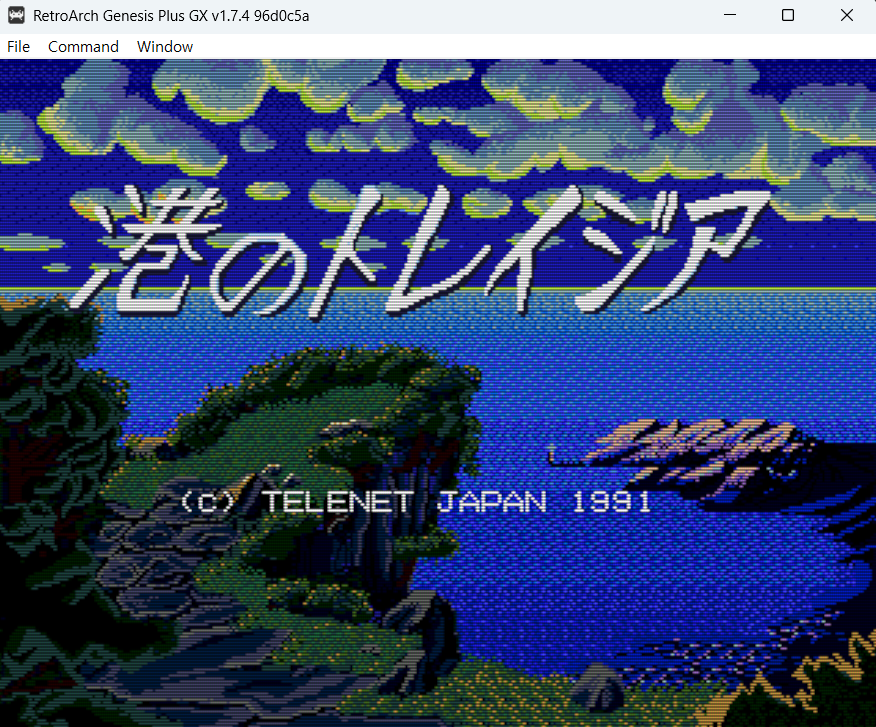
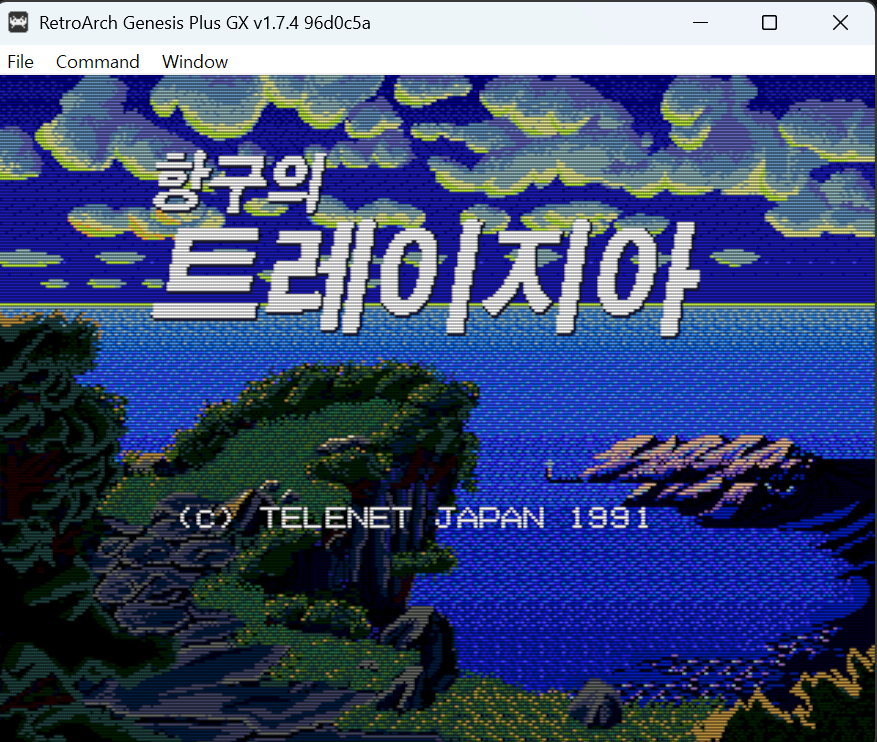
트레이지아 v0.8: 첫 배포 (검수 중)
- 오프닝~엔딩 전편 번역 완료, 총 1,676곳
- 타이틀 로고 붓 서체(HY궁서) + 이탤릭 확정
- 상태를 검수 중으로, 다운로드를 Release 링크로 변경

diff --git a/md/Minato-no-Traysia/README.md b/md/Minato-no-Traysia/README.md
@@ -2,11 +2,12 @@
 
 텔레네트 재팬 1991년작 메가드라이브 RPG **항구의 트레이지아(Minato no Traysia)** 의 한글화 패치입니다.
 
-> 🚧 **v0.7 — 개발 중** — 전투 조립 메시지의 조사(は/に)와 누락 문자열들을 정리했습니다.
+> 🔍 **v0.8 — 검수 중** — 오프닝부터 엔딩까지 번역이 끝나 플레이 가능합니다.
+> 제보를 받아 다듬는 중입니다.
 
 ## 다운로드
 
-**준비 중** — 번역이 더 진행된 뒤 배포할 예정입니다.
+[**traysia_kr_v0.8.xdelta**](https://github.com/evegood99/KR_PATCH_AGES/releases/tag/minato-no-traysia-v0.8) — Release 페이지에서 받으세요.
 
 ## 진행 상황
 
@@ -55,7 +56,11 @@ MD5:  f2ebd4d9af17649567212cab223c7f84
 
 ## 적용 방법
 
-패치 배포 시 다른 게임과 동일하게 xdelta 형식으로 제공할 예정입니다.
+[Delta Patcher](https://github.com/marco-calautti/DeltaPatcher/releases)(GUI) 또는:
+
+```
+xdelta3 -d -s "Minato no Traysia (Japan).md" traysia_kr_v0.8.xdelta traysia_kr.md
+```
 
 ## 기술 개요
 
@@ -81,7 +86,11 @@ MD5:  f2ebd4d9af17649567212cab223c7f84
 
 ## 변경 이력
 
-### v0.7 (2026-07-30) — 개발 중
+### v0.8 (2026-07-30) — 검수 중
+- 타이틀 로고를 붓 서체(HY궁서) + 이탤릭 기울임으로 확정
+- 첫 배포. 오프닝~엔딩 전편 플레이 가능
+
+### v0.7 (2026-07-30)
 - **전투 조립 메시지 정리**. 메시지는 `[이름]+[は]+[대상]+[に]+[수치]+「のダメージを与えた！」`
   식으로 조립되는데, 조사 조각이 2바이트뿐이라 번역이 빠져 있었다
   - 「は」→「, 」 제자리 교체(이름 어미에 무관하게 읽히도록 쉼표). 「に」는 2바이트로는

diff --git a/README.md b/README.md
@@ -15,7 +15,7 @@
 | [<img src="md/vermilion/screenshots/title.png" width="240"><br>**버밀리온 (Vermilion)**](md/vermilion/) | 메가드라이브 | v0.9 | 테스트 중 | [Release](https://github.com/evegood99/KR_PATCH_AGES/releases/tag/vermilion-v0.9) |
 | [<img src="dos/jones-in-the-fastlane/screenshots/start_ment.png" width="240"><br>**존의 사생활**](dos/jones-in-the-fastlane/) | DOS | v0.9 | 1차 검수 완료 | [Release](https://github.com/evegood99/KR_PATCH_AGES/releases/tag/jones-in-the-fastlane-v0.9) |
 | [<img src="md/super-daisenryaku/screenshots/title.png" width="240"><br>**슈퍼 대전략**](md/super-daisenryaku/) | 메가드라이브 | v0.8 | 🔍 검수 중 | [Release](https://github.com/evegood99/KR_PATCH_AGES/releases/tag/super-daisenryaku-v0.8) |
-| [<img src="md/Minato-no-Traysia/screenshots/title.png" width="240"><br>**항구의 트레이지아**](md/Minato-no-Traysia/) | 메가드라이브 | v0.7 | 🚧 개발 중 | 준비 중 |
+| [<img src="md/Minato-no-Traysia/screenshots/title.png" width="240"><br>**항구의 트레이지아**](md/Minato-no-Traysia/) | 메가드라이브 | v0.8 | 🔍 검수 중 | [Release](https://github.com/evegood99/KR_PATCH_AGES/releases/tag/minato-no-traysia-v0.8) |
 | [<img src="md/master-of-monsters/screenshots/overview.png" width="240"><br>**마스터 오브 몬스터즈**](md/master-of-monsters/) | 메가드라이브 | - | 📋 준비 중 | 준비 중 |
 
 ## 패치 적용 방법 (공통 — xdelta 형식)
